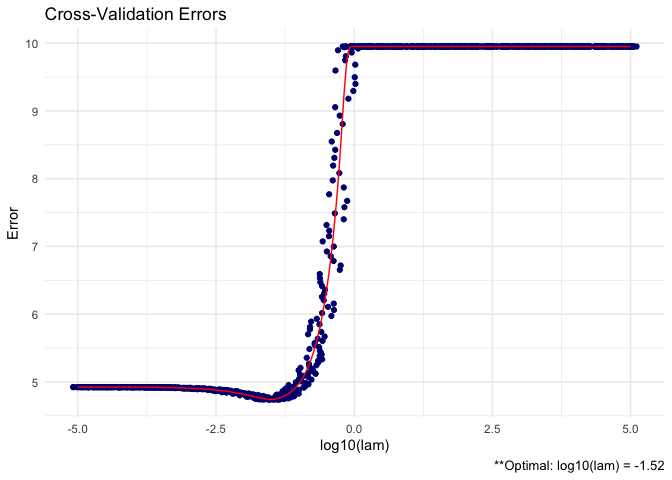
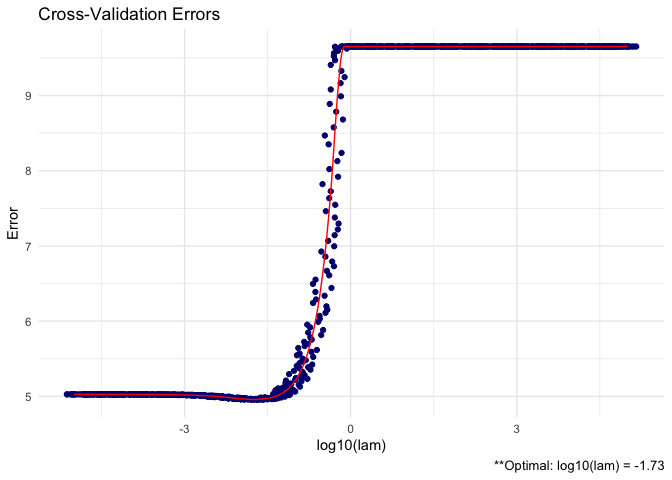
bug fix

diff --git a/README.md b/README.md
@@ -1,7 +1,7 @@
 GLASSOO
 ================
 
-See [manual](https://github.com/MGallow/GLASSO/blob/master/GLASSO.pdf).
+See [manual](https://github.com/MGallow/GLASSO/blob/master/GLASSOO.pdf).
 
 Overview
 --------
@@ -71,36 +71,36 @@ Sample = (nrow(X) - 1)/nrow(X)*cov(X)
 ```
 
     ##          [,1]     [,2]     [,3]     [,4]     [,5]
-    ## [1,]  2.10163 -1.56504  0.14953  0.02062  0.01857
-    ## [2,] -1.56504  3.18650 -1.25450 -0.23707 -0.04071
-    ## [3,]  0.14953 -1.25450  2.48906 -1.29051  0.14033
-    ## [4,]  0.02062 -0.23707 -1.29051  2.85862 -1.38010
-    ## [5,]  0.01857 -0.04071  0.14033 -1.38010  1.96014
+    ## [1,]  1.98365 -1.54113 -0.03896 -0.04392  0.11939
+    ## [2,] -1.54113  3.13590 -1.14656  0.07428 -0.27851
+    ## [3,] -0.03896 -1.14656  2.44800 -1.08953  0.00029
+    ## [4,] -0.04392  0.07428 -1.08953  2.40163 -1.10604
+    ## [5,]  0.11939 -0.27851  0.00029 -1.10604  1.87394
 
 ``` r
-# GLASSO (lam = 10^(-1))
-GLASSO(S = Sample, lam = 10^(-1))
+# GLASSO (lam = 0.5)
+GLASSO(S = Sample, lam = 0.5)
 ```
 
     ## 
-    ## Call: GLASSO(S = Sample, lam = 10^(-1))
+    ## Call: GLASSO(S = Sample, lam = 0.5)
     ## 
     ## Iterations:
-    ## [1] 7
+    ## [1] 3
     ## 
     ## Tuning parameter:
     ##       log10(lam)  lam
-    ## [1,]          -1  0.1
+    ## [1,]      -0.301  0.5
     ## 
-    ## Log-likelihood: -8.12889
+    ## Log-likelihood: -11.94762
     ## 
     ## Omega:
     ##          [,1]     [,2]     [,3]     [,4]     [,5]
-    ## [1,]  1.66353 -0.96350  0.00000  0.00000  0.00000
-    ## [2,] -0.96350  2.20755 -0.78538 -0.22550  0.00000
-    ## [3,]  0.00000 -0.78538  1.84533 -0.83353  0.00000
-    ## [4,]  0.00000 -0.22550 -0.83353  2.04501 -0.90442
-    ## [5,]  0.00000  0.00000  0.00000 -0.90442  1.58640
+    ## [1,]  0.99244 -0.23296  0.00000  0.00000  0.00000
+    ## [2,] -0.23296  1.16354 -0.14944  0.00000  0.00000
+    ## [3,]  0.00000 -0.14944  1.04543 -0.15200  0.00000
+    ## [4,]  0.00000  0.00000 -0.15200  1.05441 -0.13787
+    ## [5,]  0.00000  0.00000  0.00000 -0.13787  1.08982
 
 ``` r
 # GLASSO cross validation
@@ -114,18 +114,18 @@ GLASSO(X, lam = 10^seq(-5, 5, 0.5))
     ## [1] 7
     ## 
     ## Tuning parameter:
-    ##       log10(lam)   lam
-    ## [1,]          -2  0.01
+    ##       log10(lam)    lam
+    ## [1,]        -1.5  0.032
     ## 
-    ## Log-likelihood: -123.18936
+    ## Log-likelihood: -137.19636
     ## 
     ## Omega:
     ##          [,1]     [,2]     [,3]     [,4]     [,5]
-    ## [1,]  2.05022 -1.43321  0.07446  0.00296  0.00270
-    ## [2,] -1.43321  2.99367 -1.15595 -0.24757  0.00000
-    ## [3,]  0.07446 -1.15595  2.41010 -1.18025  0.03513
-    ## [4,]  0.00296 -0.24757 -1.18025  2.70643 -1.27714
-    ## [5,]  0.00270  0.00000  0.03513 -1.27714  1.92206
+    ## [1,]  1.82323 -1.31666 -0.06110  0.00000  0.00000
+    ## [2,] -1.31666  2.76907 -0.99074  0.00000 -0.15513
+    ## [3,] -0.06110 -0.99074  2.22827 -0.94831 -0.03176
+    ## [4,]  0.00000  0.00000 -0.94831  2.19159 -0.97400
+    ## [5,]  0.00000 -0.15513 -0.03176 -0.97400  1.75654
 
 ``` r
 # produce CV heat map for GLASSO
